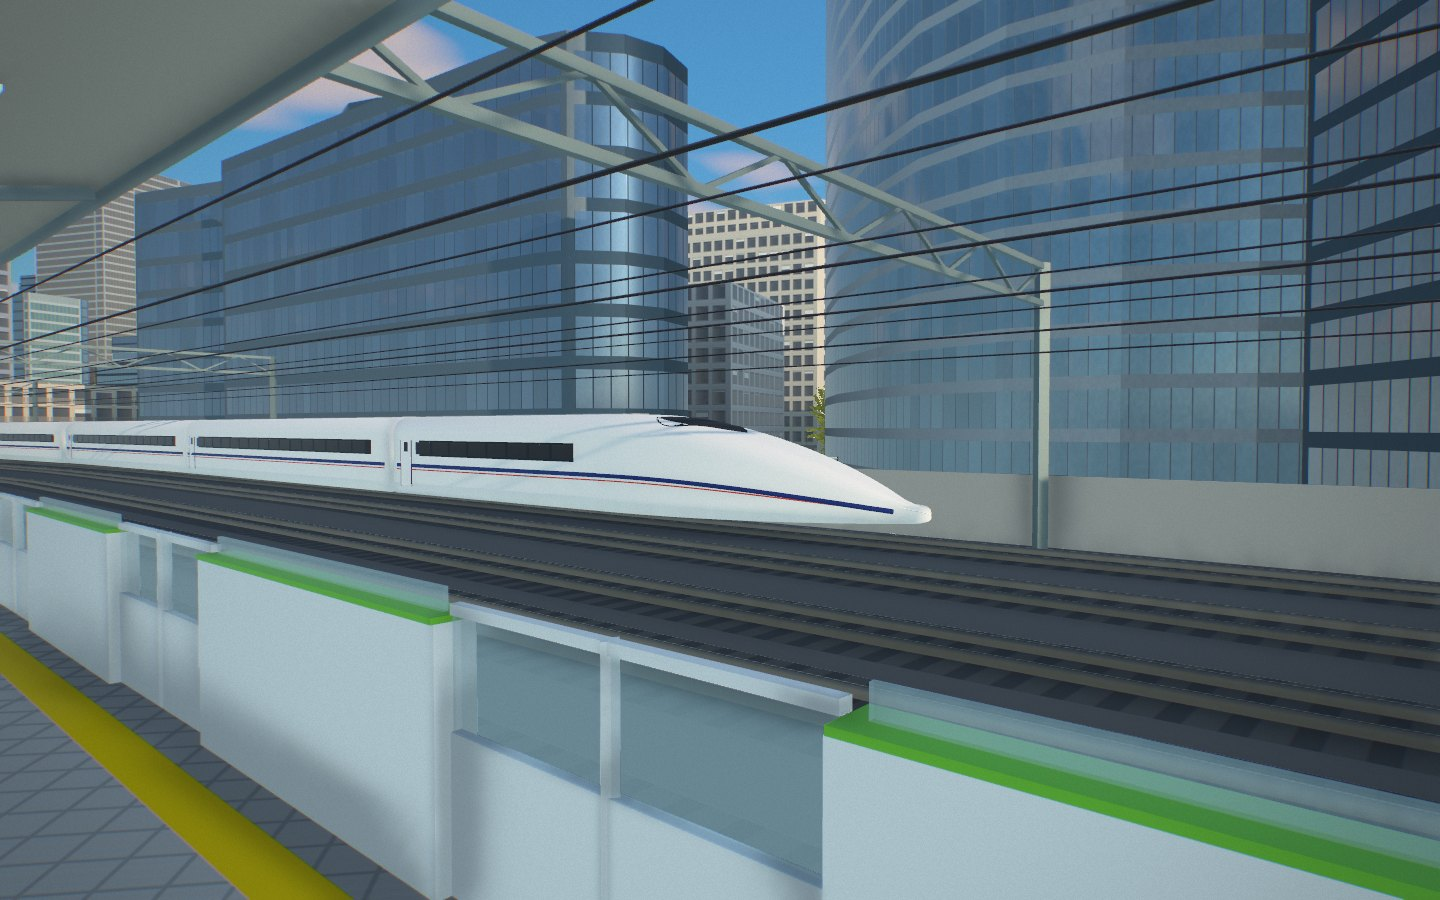
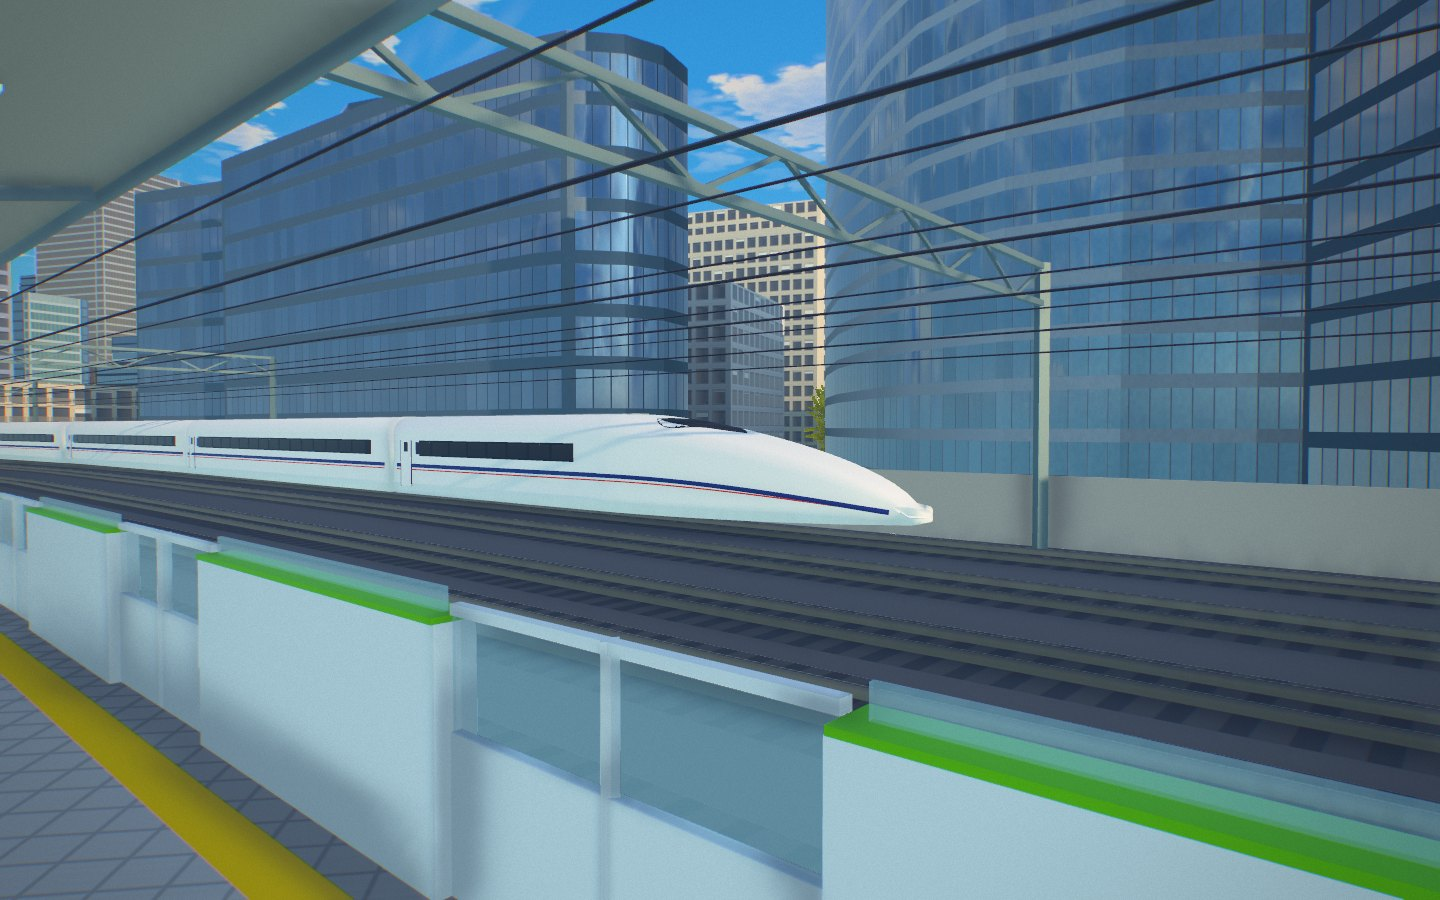
The high-speed train's nose: an even growth of section, a low wide lip
The nose drew in late and came to a point. Its width and height now
fall as powers of what is left of the nose that multiply to a straight
line, so the cross-section grows from the tip at an all but even rate,
as a nose shaped for tunnels does, and the tip is a round lip a metre
wide. The windscreen wraps further down the shoulders, to be seen from
a platform. No flow was computed: the shape follows the rule, not a
simulation.

diff --git a/web/game/trains.js b/web/game/trains.js
@@ -242,7 +242,7 @@ float litHash( float n ) { return fract( sin( n * 127.1 ) * 43758.5453 ); }`)
   // The high-speed train: a design of this project's own, to the Tokaido Shinkansen's loading gauge (25 m cars,
   // 3.36 m wide, 3.6 m high, sixteen to a train) and no model of any operator's stock. A pearl-white shell on
   // full skirts; a nose of 11 m in one unbroken curve, the roof coming down and the sides drawing in from the
-  // saloon's own section to a small round tip, with nothing standing proud of it: the driver's windscreen is a
+  // saloon's own section to a low, wide, round lip, with nothing standing proud of it: the driver's windscreen is a
   // dark teardrop laid flush in the nose's back. One band of dark glass the length of each saloon; and along
   // the side an indigo line over a fine vermilion one, which run down the nose to its tip.
   function shinkansen(S, role) {
@@ -250,9 +250,14 @@ float litHash( float n ) { return fract( sin( n * 127.1 ) * 43758.5453 ); }`)
     const Wd = 3.36, hw = Wd / 2, y0 = 0.26, top = 3.6, NOSE = 11;
     const nose = role === 'head' || role === 'tail', s = role === 'tail' ? -1 : 1, Z = z => s * z;
     const zb0 = -12.25, zb1 = nose ? 1.25 : 12.25, secs = [{ z: zb0, pts: section(hw, y0, top) }, { z: zb1, pts: section(hw, y0, top) }];
-    // the nose's lines: level with the roof where it leaves the saloon, falling away faster towards the tip
-    const wAt = t => Math.max(0.24, hw * Math.pow(1 - Math.pow(t, 2.3), 0.72)), lAt = t => y0 + 0.24 * t * t;
-    const hAt = t => Math.max(lAt(t) + 0.46, 0.86 + (top - 0.86) * Math.pow(1 - Math.pow(t, 1.75), 0.9));
+    // the nose's lines. Its cross-section grows from the tip to the saloon at an all but even rate (what softens
+    // the pressure wave a train pushes into a tunnel), so the width and the height each fall as a power of what
+    // is left of the nose, 0.38 and 0.62, which multiply to a straight line; t is eased so that the nose leaves
+    // the saloon without a crease. The width holds longer than the height: the tip is a low, wide, round lip
+    // (a metre across, under half a metre deep), not a point.
+    const left = t => 1 - Math.pow(t, 1.35), lAt = t => y0 + 0.22 * t * t;
+    const wAt = t => Math.max(0.5, hw * Math.pow(left(t), 0.38));
+    const hAt = t => Math.max(lAt(t) + 0.42, 0.8 + (top - 0.8) * Math.pow(left(t), 0.62));
     // the shell's height at x across it (section(): a flat crown between two round shoulders)
     const skin = (t, x) => { const w = wAt(t), r = Math.min(0.75, w * 0.45), e = Math.abs(x) - (w - r), y1 = hAt(t); return e <= 0 ? y1 : y1 - r + Math.sqrt(Math.max(0, r * r - e * e)); };
     if (nose) {
@@ -290,7 +295,7 @@ float litHash( float n ) { return fract( sin( n * 127.1 ) * 43758.5453 ); }`)
       // drawn to a point ahead, wrapping a little way down each shoulder
       const t0 = 0.16, t1 = 0.46, nT = 14, nX = 8, pos = [], idx = [];
       for (let i = 0; i <= nT; i++) {
-        const u = i / nT, t = t0 + (t1 - t0) * u, half = wAt(t) * 0.86 * Math.pow(Math.sin(Math.PI * Math.pow(u, 0.62)), 0.7);
+        const u = i / nT, t = t0 + (t1 - t0) * u, half = wAt(t) * 0.97 * Math.pow(Math.sin(Math.PI * Math.pow(u, 0.62)), 0.7);
         for (let j = 0; j <= nX; j++) { const x = half * (2 * j / nX - 1); pos.push(x, skin(t, x) + 0.012, zb1 + NOSE * t); }
       }
       for (let i = 0; i < nT; i++) for (let j = 0; j < nX; j++) { const a0 = i * (nX + 1) + j, b0 = a0 + 1, c0 = a0 + nX + 1, d0 = c0 + 1; idx.push(a0, c0, b0, b0, c0, d0); }

diff --git a/docs/cities/tokyo.md b/docs/cities/tokyo.md
@@ -295,7 +295,7 @@ high-speed train is not a copy of the real one:
 | Yamanote (tracks 2, 3) | E235: steel with yellow-green doors | 11 | stops |
 | Keihin-Tohoku (1, 4) | E233-1000: a sky blue band | 10 | stops; its rapid trains run through from 10:30 to 15:30 |
 | Tokaido Main | E233-3000: orange over green | 15 | runs past |
-| Tokaido Shinkansen | a high-speed train of this project's own design: pearl white, an 11 m nose in one curve with the windscreen flush in it, an indigo line over a fine vermilion one | 16 (400 m) | runs past |
+| Tokaido Shinkansen | a high-speed train of this project's own design: pearl white, an 11 m nose in one curve to a low, wide lip, its cross-section growing evenly from the tip, the windscreen flush in it, an indigo line over a fine vermilion one | 16 (400 m) | runs past |
 
 ![The high-speed train passing platform 4: a nose in one curve, the windscreen flush in it](../images/tokyo/yurakucho-high-speed-train.jpg)
 
